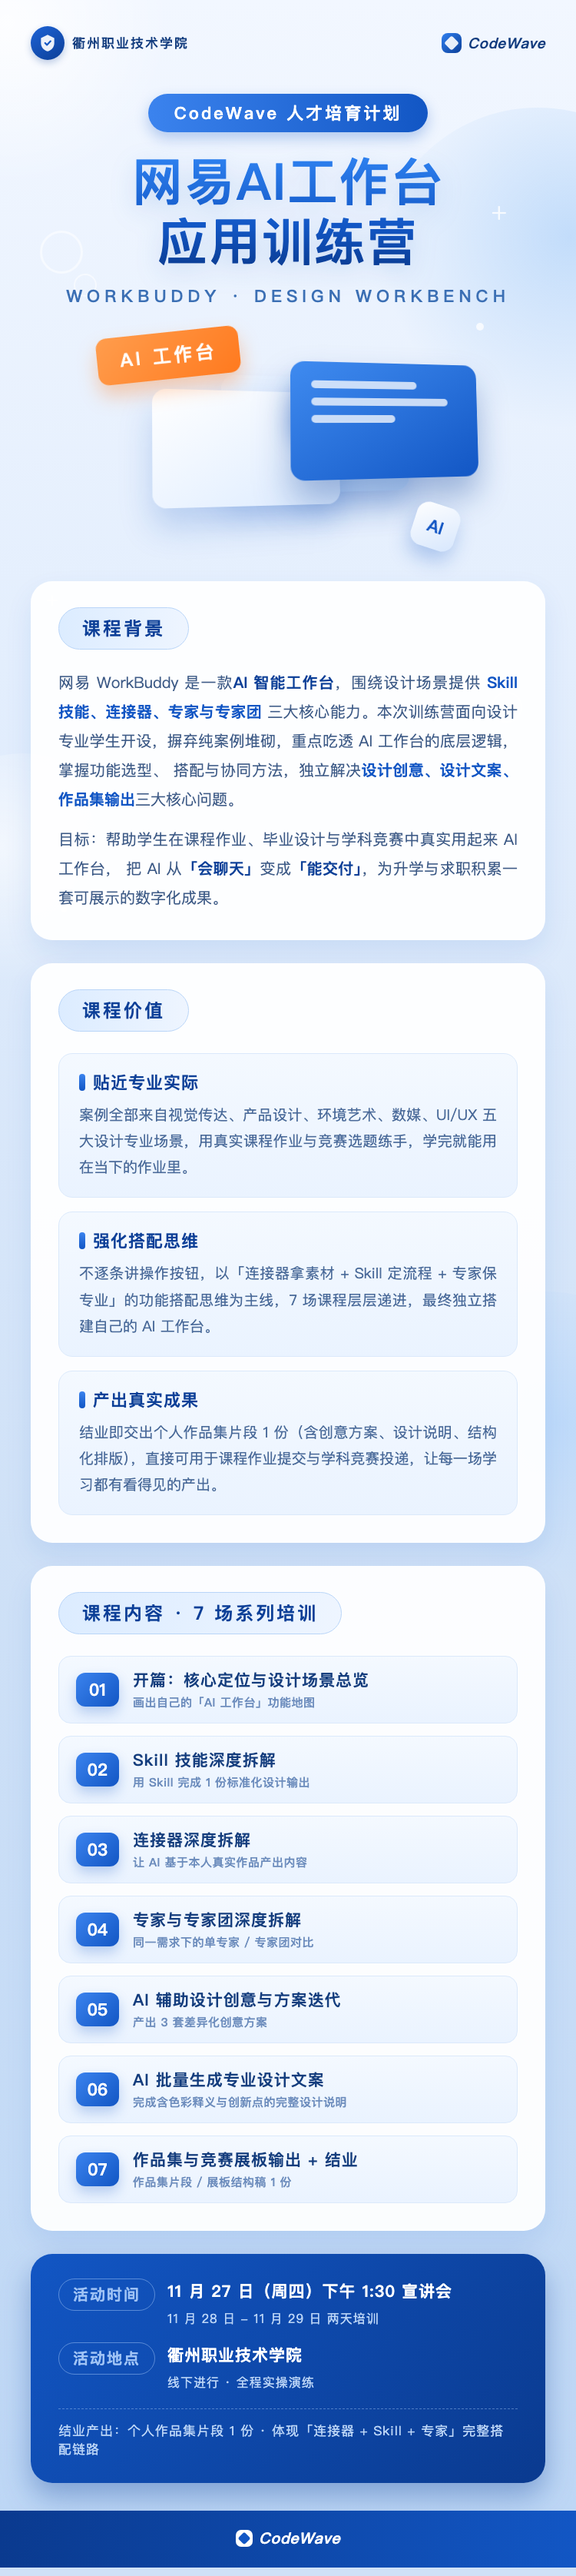
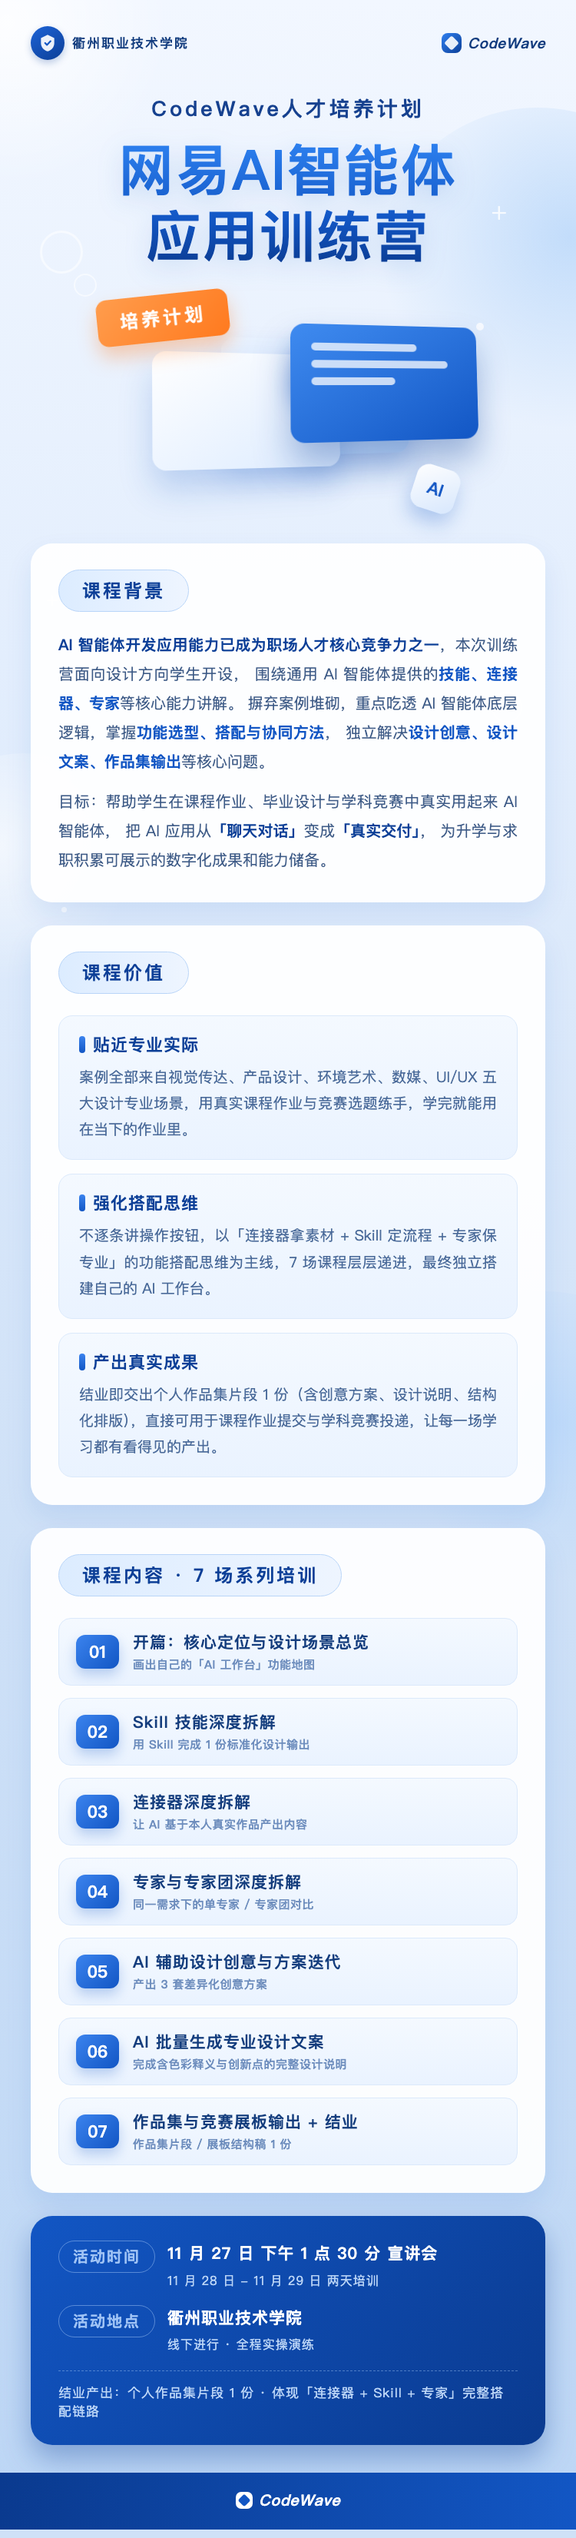
assets: 长图按反馈修订（标题改智能体、课程背景新文案、活动时间、沿用头部尾部设计）

diff --git a/assets/images/2026-训练营宣传长图.html b/assets/images/2026-训练营宣传长图.html
@@ -43,14 +43,11 @@
 
   /* ---------- 标题区 ---------- */
   .hero{position:relative;z-index:2;padding:44px 44px 0;text-align:center}
-  .hero .kicker{display:inline-block;font-size:22px;font-weight:700;color:#fff;letter-spacing:3px;
-    background:linear-gradient(90deg,#3b83ee,#1256c4);padding:10px 34px;border-radius:999px;
-    box-shadow:0 8px 18px rgba(18,86,196,.28)}
-  .hero h1{margin-top:26px;font-size:66px;font-weight:900;letter-spacing:2px;line-height:1.18;
+  .hero .kicker{display:inline-block;font-size:27px;font-weight:800;color:#16418f;letter-spacing:4px}
+  .hero h1{margin-top:18px;font-size:72px;font-weight:900;letter-spacing:2px;line-height:1.2;
     background:linear-gradient(180deg,#2f83f2 0%,#1256c4 62%,#0a3a8f 100%);
     -webkit-background-clip:text;background-clip:text;color:transparent;
     filter:drop-shadow(0 10px 16px rgba(18,86,196,.18))}
-  .hero .sub{margin-top:16px;font-size:22px;font-weight:600;color:#3b6fb4;letter-spacing:6px}
 
   /* ---------- 3D 插画区 ---------- */
   .illus{position:relative;z-index:2;height:300px;margin-top:26px;display:flex;align-items:center;justify-content:center}
@@ -152,9 +149,8 @@
 
   <!-- 标题 -->
   <div class="hero">
-    <div class="kicker">CodeWave 人才培育计划</div>
-    <h1>网易AI工作台<br>应用训练营</h1>
-    <div class="sub">WORKBUDDY · DESIGN WORKBENCH</div>
+    <div class="kicker">CodeWave人才培养计划</div>
+    <h1>网易AI智能体<br>应用训练营</h1>
   </div>
 
   <!-- 3D 插画 -->
@@ -163,7 +159,7 @@
       <div class="panel p-2"></div>
       <div class="panel p-1"><div class="core"></div></div>
       <div class="panel p-3"><div class="lines"><i></i><i></i><i></i></div></div>
-      <div class="badge">AI 工作台</div>
+      <div class="badge">培养计划</div>
       <div class="float dice">AI</div>
     </div>
   </div>
@@ -172,13 +168,15 @@
   <div class="card">
     <div class="tag">课程背景</div>
     <p class="body">
-      网易 WorkBuddy 是一款<b>AI 智能工作台</b>，围绕设计场景提供 <span class="hl">Skill 技能、连接器、专家与专家团</span>
-      三大核心能力。本次训练营面向设计专业学生开设，摒弃纯案例堆砌，重点吃透 AI 工作台的底层逻辑，掌握功能选型、
-      搭配与协同方法，独立解决<span class="hl">设计创意、设计文案、作品集输出</span>三大核心问题。
+      <b>AI 智能体开发应用能力已成为职场人才核心竞争力之一</b>，本次训练营面向设计方向学生开设，
+      围绕通用 AI 智能体提供的<span class="hl">技能、连接器、专家</span>等核心能力讲解。
+      摒弃案例堆砌，重点吃透 AI 智能体底层逻辑，掌握<span class="hl">功能选型、搭配与协同方法</span>，
+      独立解决<span class="hl">设计创意、设计文案、作品集输出</span>等核心问题。
     </p>
     <p class="body" style="margin-top:14px">
-      目标：帮助学生在课程作业、毕业设计与学科竞赛中真实用起来 AI 工作台，
-      把 AI 从<b>「会聊天」</b>变成<b>「能交付」</b>，为升学与求职积累一套可展示的数字化成果。
+      目标：帮助学生在课程作业、毕业设计与学科竞赛中真实用起来 AI 智能体，
+      把 AI 应用从<b>「聊天对话」</b>变成<b>「真实交付」</b>，
+      为升学与求职积累可展示的数字化成果和能力储备。
     </p>
   </div>
 
@@ -219,7 +217,7 @@
   <div class="info">
     <div class="row">
       <div class="lab">活动时间</div>
-      <div class="val">11 月 27 日（周四）下午 1:30 宣讲会<small>11 月 28 日 - 11 月 29 日 两天培训</small></div>
+      <div class="val">11 月 27 日 下午 1 点 30 分 宣讲会<small>11 月 28 日 - 11 月 29 日 两天培训</small></div>
     </div>
     <div class="row">
       <div class="lab">活动地点</div>
